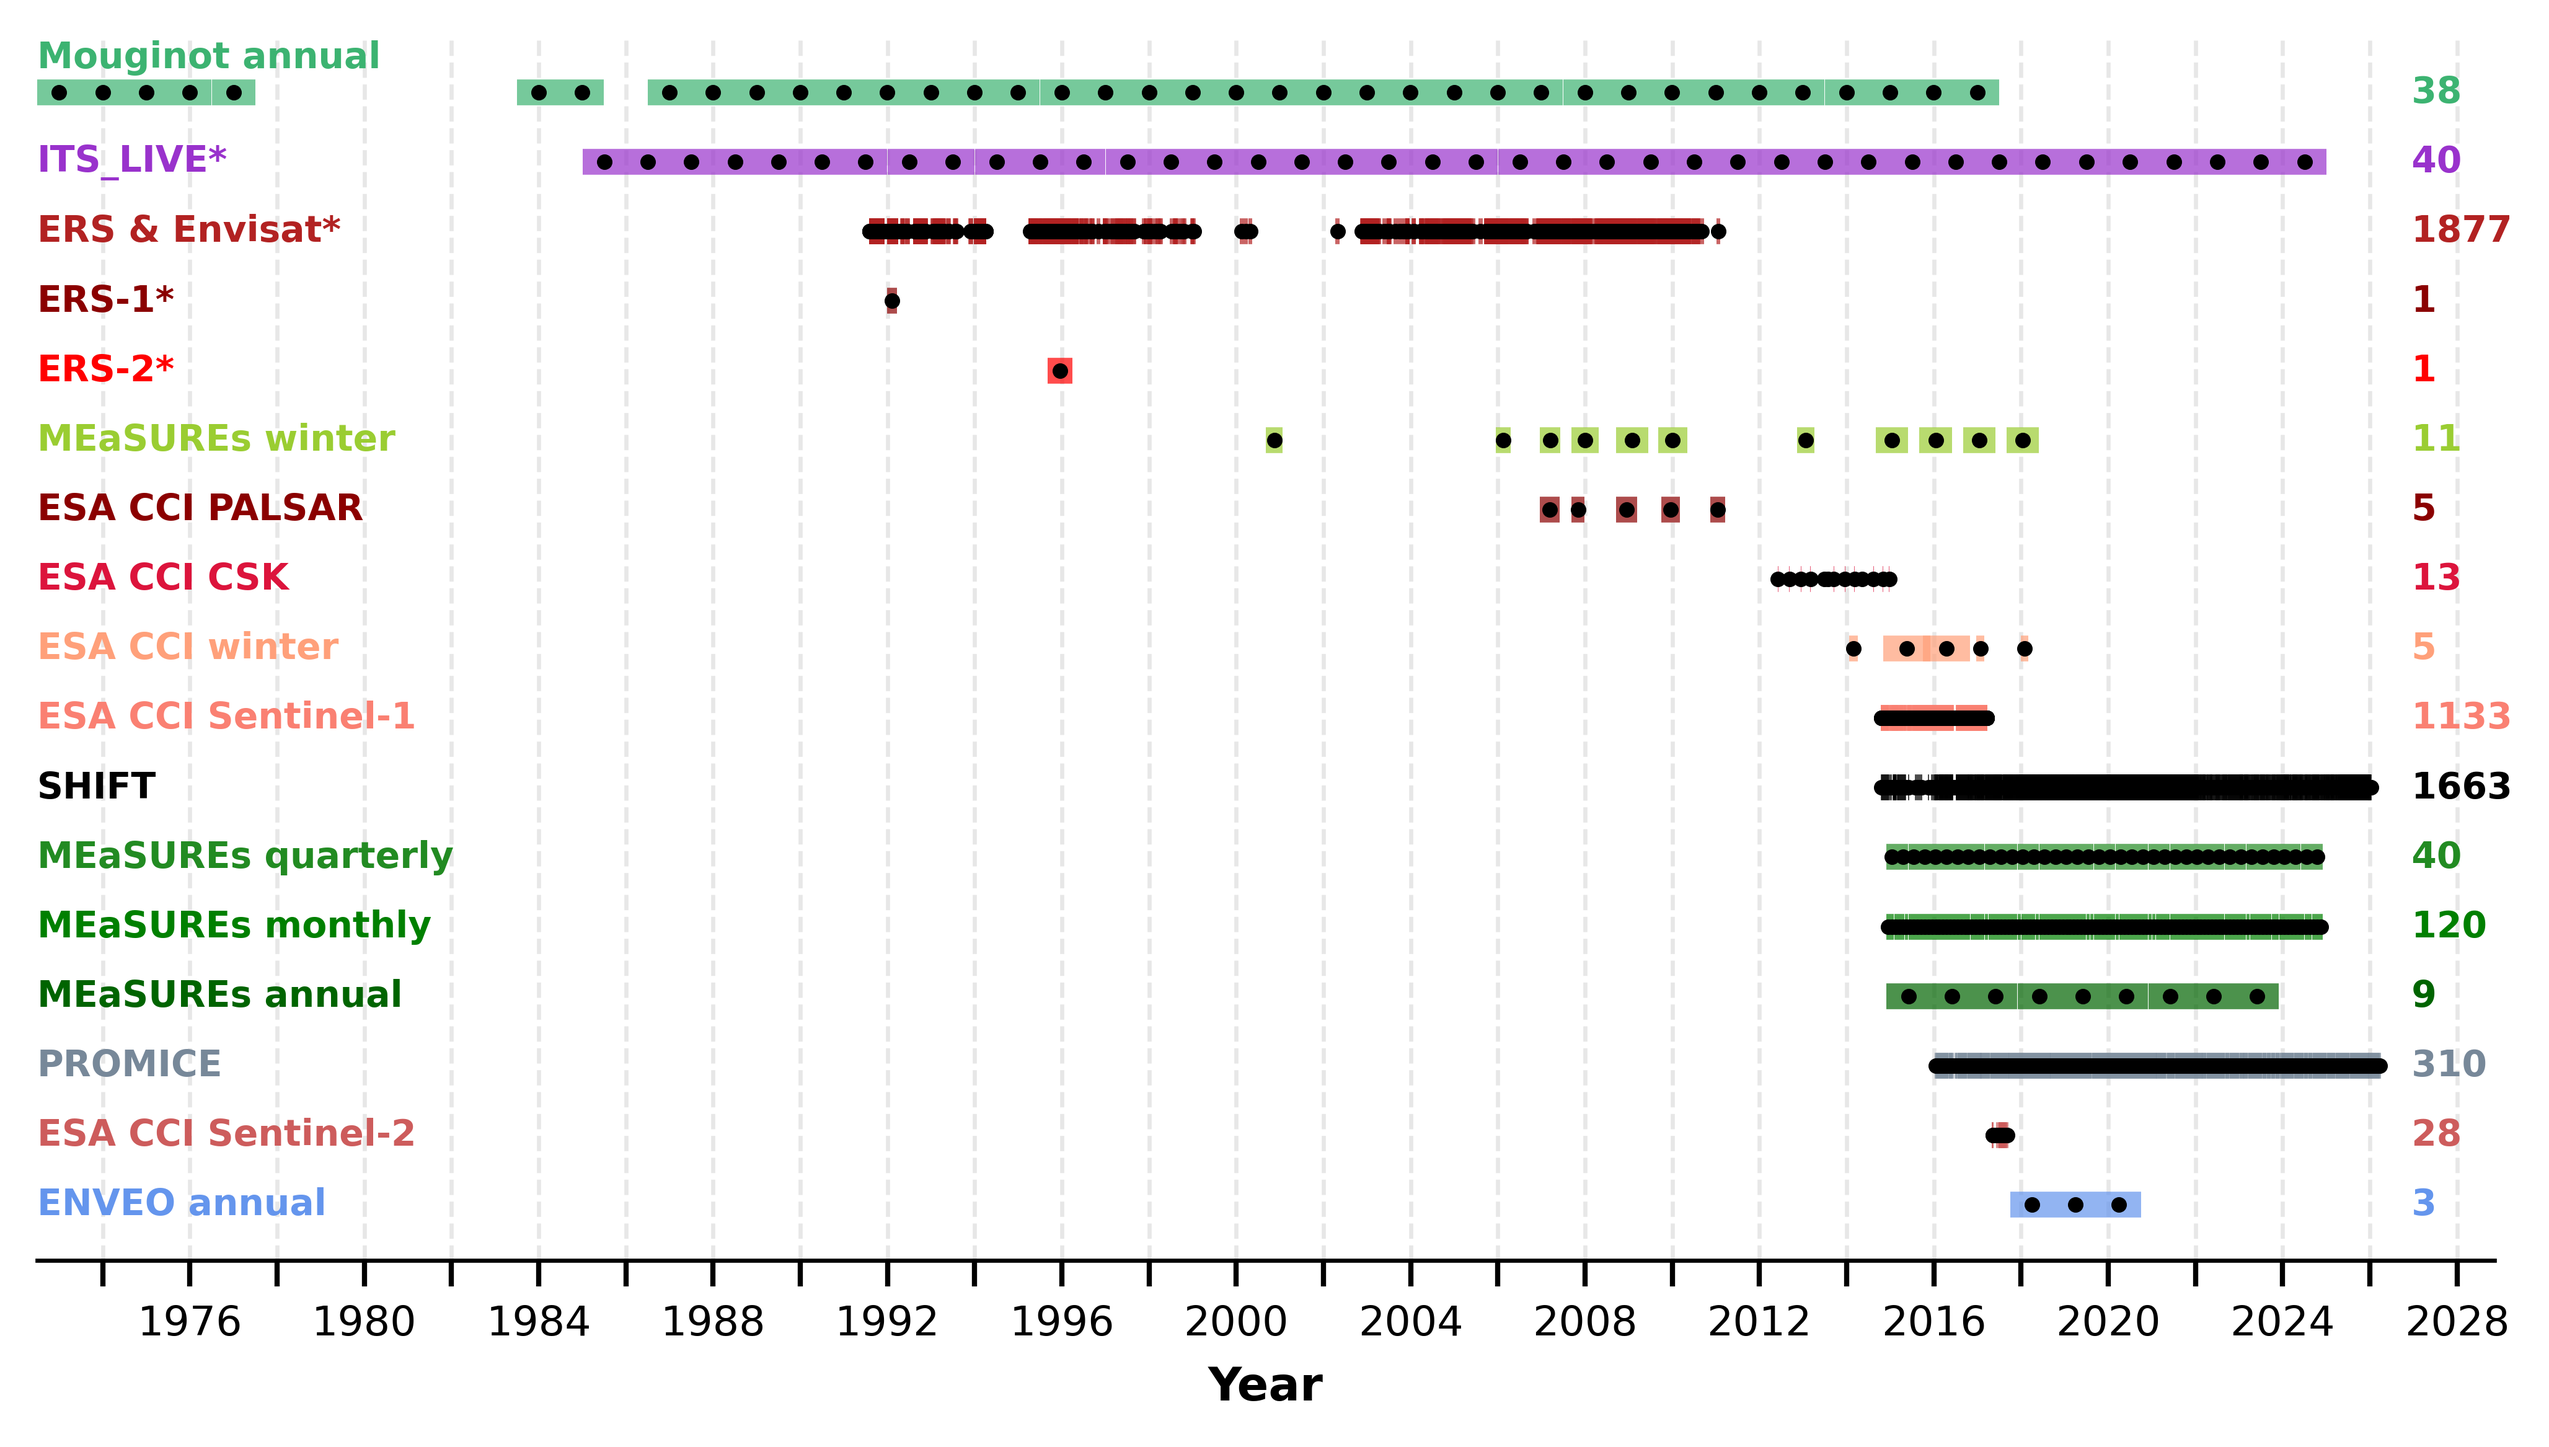
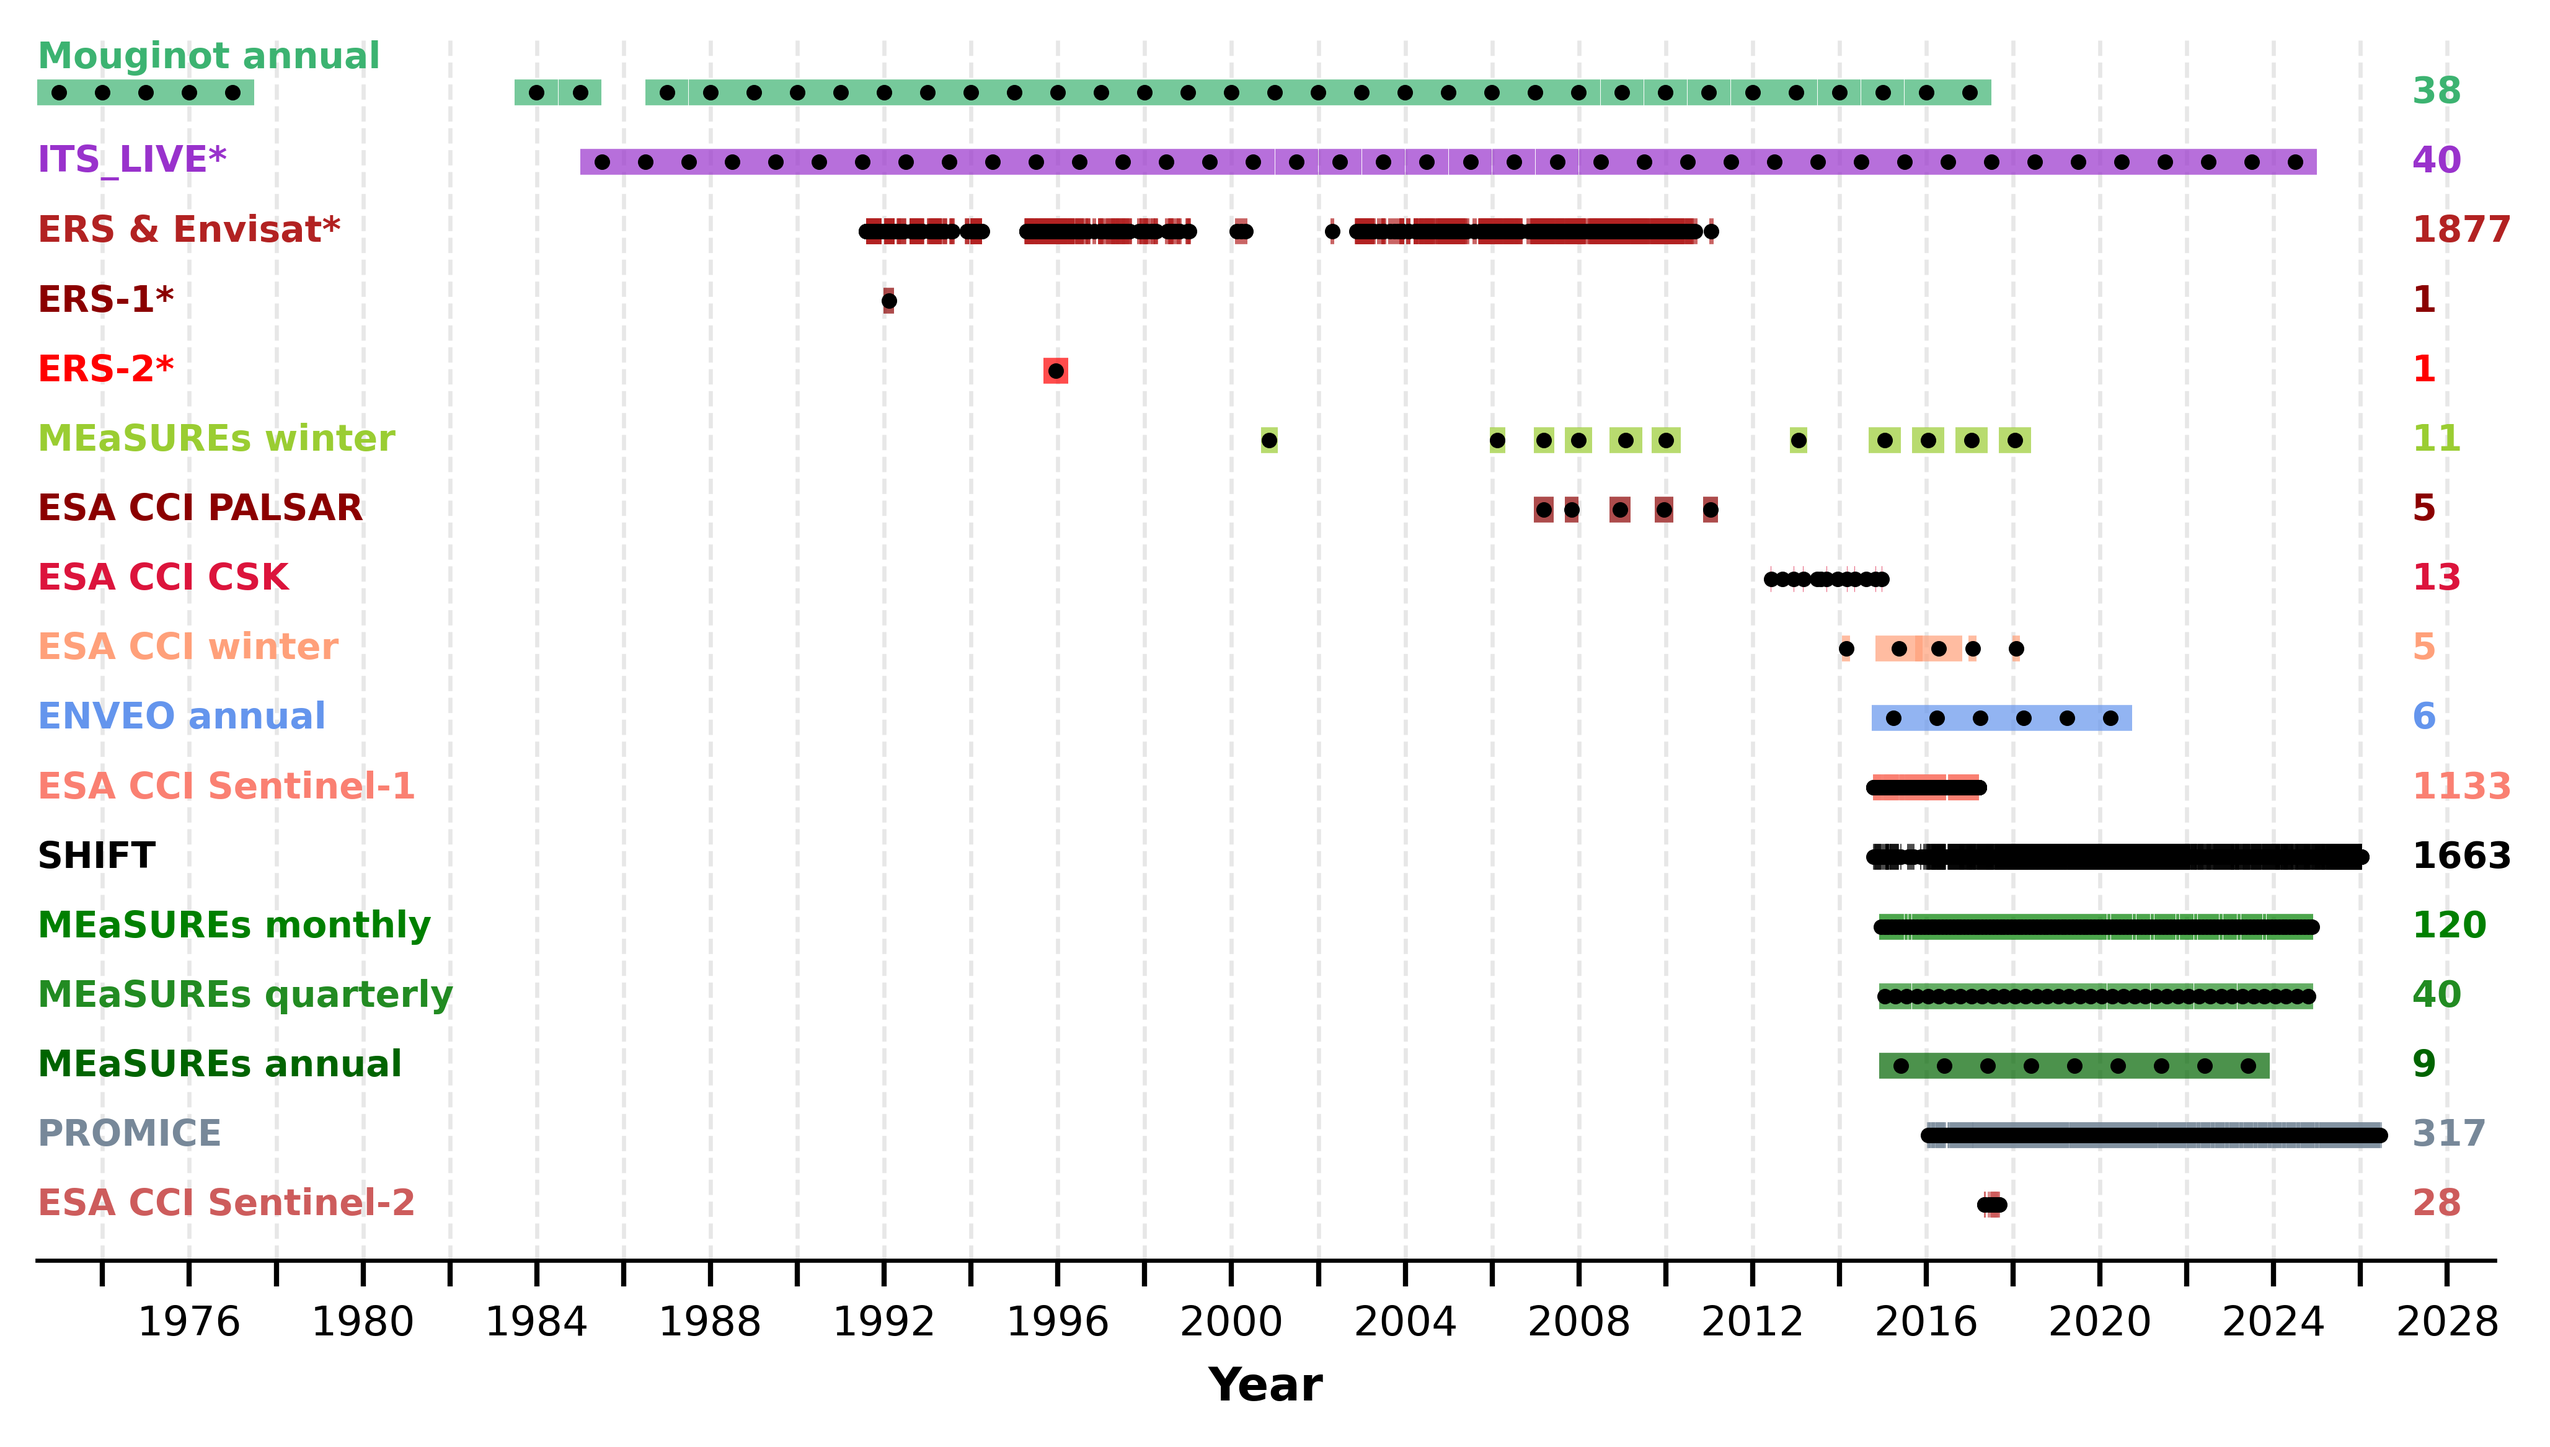
Manage releases.

diff --git a/client/src/views/documentation/DocGreenlandView.vue b/client/src/views/documentation/DocGreenlandView.vue
@@ -38,14 +38,14 @@ onMounted(() => {
       <p>Our Greenland ice speed data cube is created from fourteen individual data sources:</p>
 	  <ul>
 	    <li><strong>SHIFT:</strong> 12-day snapshots over West Greenland. 2014 to 2026.</li>
-		<li><strong>PROMICE:</strong> 24-day averages, Greenland-wide averages. 2016 to 2025.</li>
+		<li><strong>PROMICE:</strong> 24-day averages, Greenland-wide averages. 2016 to 2026 (updated every ~12 days).</li>
 		<li><strong>MEaSUREs monthly:</strong> Monthly averages, Greenland-wide. 2015 to 2024.</li>
 		<li><strong>MEaSUREs quarterly:</strong> Quarterly averages, Greenland-wide. 2014 to 2024.</li>
 		<li><strong>MEaSUREs winter:</strong> Winter averages, Greenland-wide. 2000 to 2018 most years.</li>
 		<li><strong>MEaSUREs annual:</strong> Annual averages, Greenland-wide. 2015 to 2024.</li>
 		<li><strong>ITS_LIVE annual:</strong> Annual (calendar year) averages, Greenland-wide. 1985 to 2024.</li>
 		<li><strong>Mouginot annual:</strong> Annual (July through June) averages, Greenland-wide. 1972 to 2017.</li>
-		<li><strong>ENVEO annual:</strong> Annual (October through September) averages, Greenland-wide. 2014 to 2018.</li>
+		<li><strong>ENVEO annual:</strong> Annual (October through September) averages, Greenland-wide. 2014 to 2020.</li>
 		<li><strong>ESA CCI winter:</strong> Predominantly winter (varying months) averages, Greenland-wide. 2013 to 2018.</li>
 		<li><strong>ESA CCI ERS-1 (1991-1992):</strong> 1991/1992 winter snapshot, northern and northwestern Greenland.</li>
 		<li><strong>ESA CCI ERS-2 (1995-1996):</strong> 1995/1996 winter snapshot, Greenland margin.</li>
@@ -81,7 +81,7 @@ onMounted(() => {
 	<section id="promice">
       <h2>2.3. PROMICE</h2>
 	  <p>The PROMICE data provide 24-day (two consecutive Sentinel-1 cycles) averages of ice speed over Greenland derived from intensity tracking of Sentinel-1 
-	  image pairs from 2016 to 2025. We use Edition 5 of the PROMICE mosaics here; these mosaics can be downloaded from the
+	  image pairs from 2016 to 2026, with new 24-day averages added every 12 days. We use Edition 5 of the PROMICE mosaics here; these mosaics can be downloaded from the
 	  <AppLink to="https://dataverse.geus.dk/dataset.xhtml?persistentId=doi%3A10.22008%2FFK2%2FK70OPK&version=&q=&fileTypeGroupFacet=&fileAccess=&fileSortField=name&fileSortOrder=desc" target="_blank" rel="noopener" class="text-link">GEUS Dataverse repository</AppLink>. 
 	  The PROMICE velocity processing pipeline is described in detail in <AppLink to="https://essd.copernicus.org/articles/13/3491/2021/" target="_blank" rel="noopener" class="text-link">Solgaard et al. (2021)</AppLink>.</p>
 	  
@@ -229,7 +229,7 @@ onMounted(() => {
 	
 	<section id="enveo_annual">
       <h2>2.10. ENVEO Annual</h2>
-	  <p>The ENVEO annual data provide annual (October through September) averages of ice speed over Greenland derived from a combination of SAR interferometry and intensity and coherence tracking applied to Sentinel-1 image pairs acquired during 2014 to 2018.
+	  <p>The ENVEO annual data provide annual (October through September) averages of ice speed over Greenland derived from a combination of SAR interferometry and intensity and coherence tracking applied to Sentinel-1 image pairs acquired during 2014 to 2020.
 	  The velocity processing pipeline used to produce the mosaics is described in <AppLink to="https://www.sciencedirect.com/science/article/pii/S0034425725004961" target="_blank" rel="noopener" class="text-link">Wuite et al. (2026)</AppLink> 
 	  and the mosaics can be accessed 
 	  <AppLink to="https://cds.climate.copernicus.eu/datasets/satellite-greenland-ice-sheet-velocity?tab=download" target="_blank" rel="noopener" class="text-link">here</AppLink>.</p>

diff --git a/server/config.py b/server/config.py
@@ -12,9 +12,17 @@ if current_os == "Windows" or is_wsl:
     overlay_path_gr = Path(f"{root_drive}/aux_data/overlays/Greenland")
     overlay_path_ant = Path(f"{root_drive}/aux_data/overlays/Antarctica")
     landsat_mosaic_path_gr = Path(f"{root_drive}/aux_data/image_mosaic/Greenland/GEE_S2/greenland_tiles_20m")
-    ZARR_PATHS = {
+    SPATIAL_ZARR_PATHS = {
         "Greenland": Path(f"{root_drive}/SCADI/output/Sentinel1/Greenland/mosaic/subregions/lev/Greenland_multisource_speed.zarr"),
         "Antarctica": Path(f"{root_drive}/SCADI/output/Sentinel1/Antarctica/mosaic/subregions/peninsula/Antarctica_multisource_speed.zarr")
+    }
+    TIMESERIES_ZARR_PATHS = {
+        "Greenland": Path(f"{root_drive}/SCADI/output/Sentinel1/Greenland/mosaic/subregions/lev/Greenland_multisource_speed_optimized.zarr"),
+        "Antarctica": Path(f"{root_drive}/SCADI/output/Sentinel1/Antarctica/mosaic/subregions/peninsula/Antarctica_multisource_speed_optimized.zarr")
+    }
+    CUBED_ZARR_PATHS = {
+        "Greenland": Path(f"{root_drive}/SCADI/output/Sentinel1/Greenland/mosaic/subregions/lev/Greenland_multisource_speed_cubed.zarr"),
+        "Antarctica": Path(f"{root_drive}/SCADI/output/Sentinel1/Antarctica/mosaic/subregions/peninsula/Antarctica_multisource_speed_cubed.zarr")
     }
     OMEZARR_PATHS = {
         "Greenland": Path(f"{root_drive}/SCADI/output/Sentinel1/Greenland/mosaic/subregions/lev/Greenland_multisource_speed_pyramid.zarr"),
@@ -30,13 +38,21 @@ else:
     overlay_path_gr = Path("/mnt/grio1/Shared/SHIVER/data/Greenland/overlays")
     overlay_path_ant = Path("/mnt/grio1/Shared/SHIVER/data/Antarctica/overlays")
     landsat_mosaic_path_gr = Path("/mnt/grio1/Shared/SHIVER/data/Greenland/image_mosaic/greenland_tiles_20m")
-    ZARR_PATHS = {
-        "Greenland": Path("/mnt/grio1/Shared/SHIVER/data/Greenland/Greenland_multisource_speed.zarr"),
-        "Antarctica": Path("/mnt/grio1/Shared/SHIVER/data/Antarctica/Antarctica_multisource_speed.zarr")
+    SPATIAL_ZARR_PATHS = {
+        "Greenland": Path("/mnt/grio1/Shared/SHIVER/data/Greenland/live/Greenland_multisource_speed.zarr"),
+        "Antarctica": Path("/mnt/grio1/Shared/SHIVER/data/Antarctica/live/Antarctica_multisource_speed.zarr")
+    }
+    TIMESERIES_ZARR_PATHS = {
+        "Greenland": Path("/mnt/grio1/Shared/SHIVER/data/Greenland/live/Greenland_multisource_speed_optimized.zarr"),
+        "Antarctica": Path("/mnt/grio1/Shared/SHIVER/data/Antarctica/live/Antarctica_multisource_speed_optimized.zarr")
+    }
+    CUBED_ZARR_PATHS = {
+        "Greenland": Path("/mnt/grio1/Shared/SHIVER/data/Greenland/live/Greenland_multisource_speed_cubed.zarr"),
+        "Antarctica": Path("/mnt/grio1/Shared/SHIVER/data/Antarctica/live/Antarctica_multisource_speed_cubed.zarr")
     }
     OMEZARR_PATHS = {
-        "Greenland": Path("/mnt/grio1/Shared/SHIVER/data/Greenland/Greenland_multisource_speed_pyramid.zarr"),
-        "Antarctica": Path("/mnt/grio1/Shared/SHIVER/data/Antarctica/Antarctica_multisource_speed_pyramid.zarr")
+        "Greenland": Path("/mnt/grio1/Shared/SHIVER/data/Greenland/live/Greenland_multisource_speed_pyramid.zarr"),
+        "Antarctica": Path("/mnt/grio1/Shared/SHIVER/data/Antarctica/live/Antarctica_multisource_speed_pyramid.zarr")
     }
     COG_BASE_DIR = {
         "Greenland": Path("/mnt/grio1/Shared/SHIVER/data/Greenland/overlays"),

diff --git a/server/utils/extract_multi_zarr_ts.py b/server/utils/extract_multi_zarr_ts.py
@@ -30,11 +30,11 @@ else:
     print("Environment: Linux (HPC Production - Multi-Source)")
     DATA_STORES = {
         'Greenland': {
-            'path': Path("/mnt/grio1/Shared/SHIVER/data/Greenland/Greenland_multisource_speed_optimized.zarr"), 
+            'path': Path("/mnt/grio1/Shared/SHIVER/data/Greenland/live/Greenland_multisource_speed_optimized.zarr"), 
             'crs': "EPSG:3413"
         },
         'Antarctica': {
-            'path': Path("/mnt/grio1/Shared/SHIVER/data/Antarctica/Antarctica_multisource_speed_optimized.zarr"), 
+            'path': Path("/mnt/grio1/Shared/SHIVER/data/Antarctica/live/Antarctica_multisource_speed_optimized.zarr"), 
             'crs': "EPSG:3031"
         }
     }
@@ -87,6 +87,11 @@ def get_multi_glacier_timeseries(
     gdf = _load_input_to_gdf(location_input)
     if gdf.empty:
         return {"error": "Input file contains no geometries."}
+    
+    # 1b. Limit extraction to ten locations
+    if len(gdf) > 10:
+        gdf = gdf.head(10)
+        results["warning"] = "File contained more than 10 locations. Only the first 10 were extracted."
 
     # 2. Detect Region
     first_geom = gdf.geometry.iloc[0]

diff --git a/server/utils/extract_multi_zarr_cube.py b/server/utils/extract_multi_zarr_cube.py
@@ -30,11 +30,11 @@ if current_os == "Windows" or is_wsl:
 else:
     DATA_STORES = {
         'Greenland': {
-            'path': Path("/mnt/grio1/Shared/SHIVER/data/Greenland/Greenland_multisource_speed_cubed.zarr"), 
+            'path': Path("/mnt/grio1/Shared/SHIVER/data/Greenland/live/Greenland_multisource_speed_cubed.zarr"), 
             'crs': "EPSG:3413"
         },
         'Antarctica': {
-            'path': Path("/mnt/grio1/Shared/SHIVER/data/Antarctica/Antarctica_multisource_speed_cubed.zarr"), 
+            'path': Path("/mnt/grio1/Shared/SHIVER/data/Antarctica/live/Antarctica_multisource_speed_cubed.zarr"), 
             'crs': "EPSG:3031"
         }
     }

diff --git a/server/utils/zarr_metadata.py b/server/utils/zarr_metadata.py
@@ -17,8 +17,8 @@ if current_os == "Windows" or is_wsl:
     }
 else:
     ZARR_PATHS = {
-        "Antarctica": r"/mnt/grio1/Shared/SHIVER/data/Antarctica/Antarctica_multisource_speed_optimized.zarr",
-        "Greenland": r"/mnt/grio1/Shared/SHIVER/data/Greenland/Greenland_multisource_speed_optimized.zarr"
+        "Antarctica": r"/mnt/grio1/Shared/SHIVER/data/Antarctica/live/Antarctica_multisource_speed_optimized.zarr",
+        "Greenland": r"/mnt/grio1/Shared/SHIVER/data/Greenland/live/Greenland_multisource_speed_optimized.zarr"
     }
 
 
